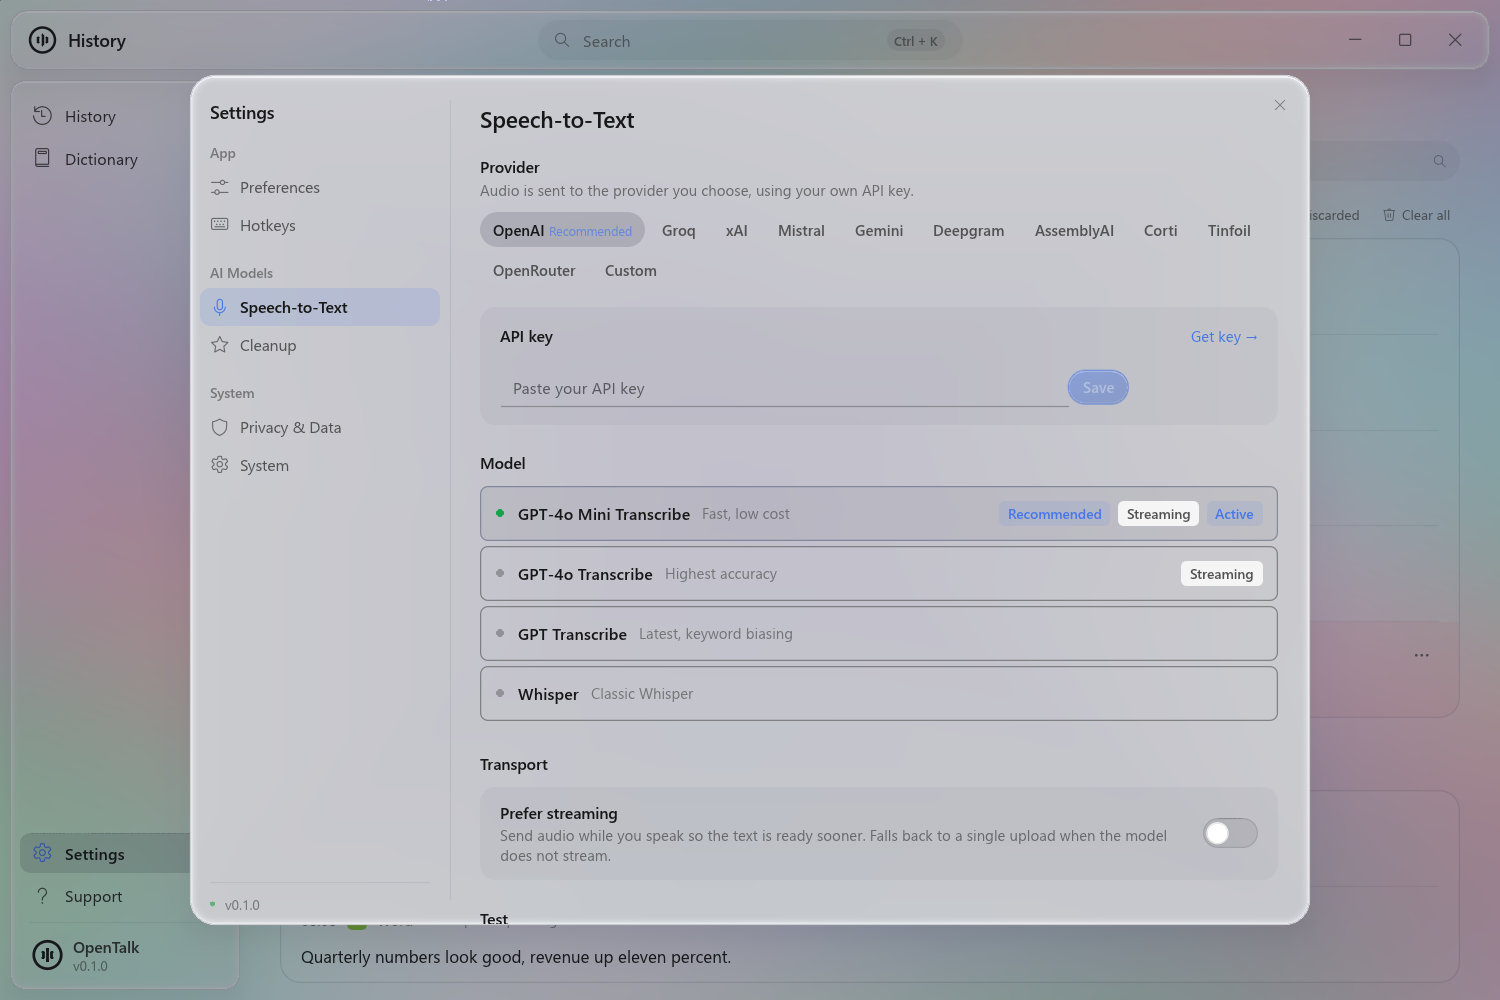
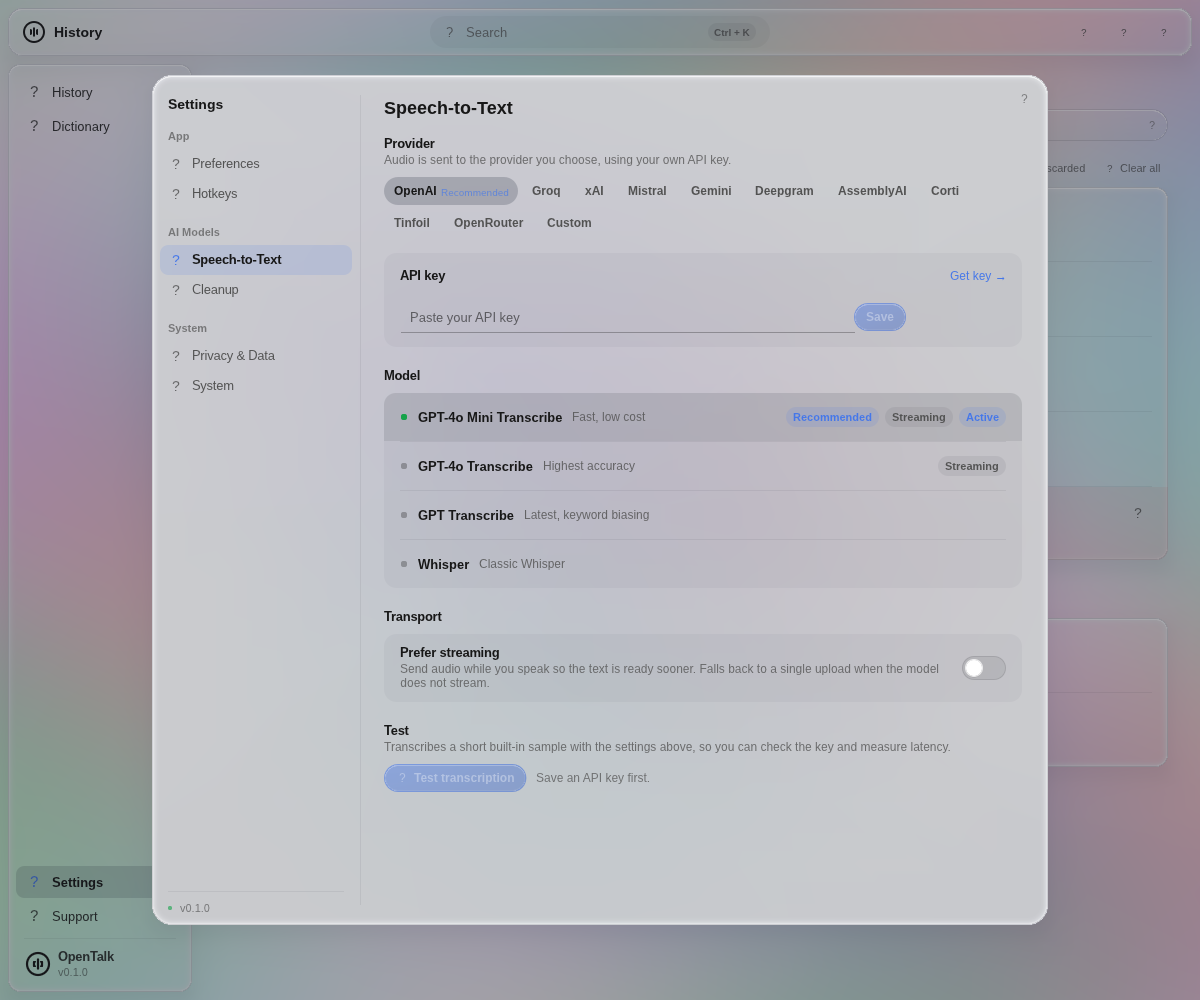
docs: GLASS.md describes every migrated page; regenerate the offscreen screenshots
Removes the "pages not migrated" gap, adds a per-page surface table, updates the checklist and
the verification section (25 scenarios in both themes, Wine font fallback, the opaque-surface
scan, release size 7,450,624 bytes).

Claude-Session: https://claude.ai/code/session_019AKLzexWTAuSHtspAhKPMG

diff --git a/docs/GLASS.md b/docs/GLASS.md
@@ -59,12 +59,27 @@ Two deliberate differences from CSS, both because egui cannot sample or blur wha
 
 | Tier | Painter | Used for |
 |---|---|---|
-| panel | `glass::panel` / `w::panel` | glass top bar, sidebar, every settings / list panel on the page |
-| chip | `glass::chip` | segmented control and pill tabs, tags and badges, outline / flat buttons, **only when not inside glass** |
-| menu | `glass::menu` / `w::menu_surface` | dropdowns and select lists, the Support menu, toasts |
-| modal | `glass::modal` / `w::glass_modal` | the Settings modal (896 x 85vh), the Ctrl+K palette, confirm dialogs; radius `--glass-radius-lg` (20) over `--glass-scrim` |
+| panel | `glass::panel` / `w::panel` | glass top bar, sidebar, every list / settings panel on the page |
+| chip | `glass::chip` | segmented control and pill tabs, tags and badges, key caps, outline / flat buttons, text inputs on the bare page, **only when not inside glass** |
+| menu | `glass::menu` / `w::menu_surface` | dropdowns and select lists, the Support menu, the History row menu, toasts |
+| modal | `glass::modal` / `w::glass_modal` | the Settings modal (896 x 85vh), the Ctrl+K palette, confirm dialogs, the snippet edit dialog; radius `--glass-radius-lg` (20) over `--glass-scrim` |
 | colored | `glass::colored` | primary and destructive buttons, the toggle's on state |
+| colored, low strength | `glass::tinted_shapes` / `w::notice` | warning banner, budget warning, Test / Run results (status tint over a glass panel; inside the modal only a tone wash) |
 | wash | `Palette::wash` / `primary_wash` | hover and selection on anything inside glass |
+
+### What each page uses
+
+| Page | Surfaces |
+|---|---|
+| top bar, sidebar | `glass::panel`; search pill, nav rows, window buttons are washes |
+| History | one `w::panel` per day (rows separated by `w::divider`; hover, failed and discarded rows are washes with the panel's edge rounding); search box is a chip-tier input (`input_chrome` outside glass); the "history is off" banner is a `w::notice`; the empty and no-match states are panels; row menu is `w::menu_surface`; delete / clear are `w::confirm_dialog` (modal tier) |
+| Dictionary | pill tabs (chip tier); add field is a chip-tier input; the word list, the bulk-import box (a `w::text_area` inside a panel), the empty hero and the snippet create / list panels are `w::panel`; the budget warning is a `w::notice`; the snippet edit dialog is `w::glass_modal`; snippet trigger tags are washes |
+| Settings modal | `w::glass_modal`; sidebar rows, the close button and the version footer are washes / hairlines |
+| Preferences, Privacy & Data, System | `w::panel` groups (a faint grouping wash inside the modal) of `w::row`s; toggles are coloured glass when on, a wash when off; selects are hairline inputs with `w::menu_surface` lists; segmented control is a wash |
+| Hotkeys | the capture box is `input_chrome` (hairline, wash, primary line and ring while capturing) holding key caps (`w::paint_keycap`); the activation rows are washes in one panel (selected: primary wash); Esc is a key cap |
+| Speech-to-Text | pill tabs, API key field (hairline input), the model list is one panel of wash rows with `w::paint_chip` tags (Recommended, Streaming, Active); Test result is a `w::notice` |
+| Cleanup | segmented control and toggles in panels, provider tabs, key and model fields, Prompt Studio (`w::text_area` in a panel), result `w::notice` |
+| hotkey capture (`hotkey_capture.rs`) | no surface: it is the keyboard hook; the box it feeds is in Hotkeys |
 
 Stock egui widgets (tooltips, any stray `ComboBox` or `Window`) follow through `theme::apply`:
 transparent panel / extreme fills, menu-surface window fill, glass border, no egui shadows.
@@ -82,8 +97,10 @@ transparent panel / extreme fills, menu-surface window fill, glass border, no eg
    a soft wash with no border and no rim; selection is a primary wash; rows are separated by spacing,
    type weight and a faint inset divider (the glass border at 60 %). Text inputs and selects have no
    box: a 1 px bottom hairline, a wash on hover, and on focus the line turns primary with a low-alpha
-   primary ring. A `w::panel` inside the Settings modal degrades to a faint grouping wash, so there is
-   never glass in glass.
+   primary ring. A `w::panel` (or `w::notice`) inside the Settings modal degrades to a faint grouping
+   wash, so there is never glass in glass. On the bare page an input has nothing to sit on, so
+   `input_chrome` draws it as a chip-tier box instead (the History search and the Dictionary add field
+   were invisible as bare washes). The same input code serves both cases.
 4. **Refraction is progressive enhancement.** The rim band is plain vertex colour (no engine gate
    needed); the CSS layer alone still gives a complete frosted panel.
 
@@ -104,7 +121,12 @@ few hundred vertex colours (cached geometry, no allocation of textures). No new 
 - [x] No acrylic (old Windows, Transparency effects off, Reduce transparency): an opaque page, same
       glass on top.
 - [x] Chips and repeated elements use the CSS-only tier.
-- [x] Nothing hardcodes a colour where a token exists (washes and rims come from `Tokens`).
+- [x] Nothing hardcodes a colour where a token exists (washes and rims come from `Tokens`). The
+      remaining literals are the toggle thumb and the avatar / window-close hover, which have no token.
+- [x] No page paints an opaque surface of its own: `offscreen::pages_inside_glass_paint_no_opaque_surfaces`
+      scans the real shapes of History, Dictionary (empty, words, bulk, snippets, edit dialog) and every
+      Settings section, in both themes.
+- [x] Every page eyeballed in both themes (`docs/screenshots/glass/offscreen/`, 25 scenarios x 2).
 
 ## Adding a surface
 
@@ -118,29 +140,50 @@ few hundred vertex colours (cached geometry, no allocation of textures). No new 
 * Primary / destructive buttons use higher alpha than the recipe, for label contrast.
 * `Palette` keeps the OpenWhispr text colours (`#171717` / `#e8e8e8`); `--glass-page-fg` is present in
   `Tokens` but body text was not changed to it, to keep the existing pages' contrast.
-* Pages that still frame their own surface (`history.rs` panels and keycaps, `dictionary.rs` edit
-  dialog, a few `settings/*.rs` fills) were not migrated here; they get translucent washes through
-  the `Palette` helpers but should move to `w::panel` / `w::glass_modal`.
+* Notices (`w::notice`, `glass::tinted_shapes`) are the skill's coloured glass at low strength
+  (10 % light / 13 % dark tone over the glass tint, border at 30 %), not the 0.55 / 0.42 button
+  gradient, so body text stays on glass.
+* The stand-in behind a modal or menu is the opaque analytic backdrop, sampled on rings
+  (`fill_rings`, one ring per ~128 points) rather than blurred: the glows show through the Settings
+  modal, but a modal is a frosted card, not live glass over the desktop. Light-theme modals read
+  greyer than the rest because the scrim (`rgba(20,22,30,.35)`) dims everything behind them, as in
+  the stylesheet.
+* Everything the page paints behind the window (acrylic) is not visible in the headless shots; see
+  Verification.
+* Pages are fully migrated: no page frames its own surface any more. The theme helpers that used to
+  return a surface fill were removed with the last caller.
 
 ## Verification
 
 * **Live window** (`docs/screenshots/glass/live-*.png`): the real `opentalk.exe --settings <page>`,
   captured with `CopyFromScreen` over a deliberately busy, colourful, text-covered wallpaper window
   placed behind it, so the acrylic blur is visible. Shell and Settings > Preferences in light and
-  dark, plus the dark shell with Reduce transparency on (opaque page). The wallpaper window and the
-  app were closed afterwards. Popups were not driven live (a scripted click did not open the Support
-  menu); they are covered by the headless renderer below.
+  dark, plus the dark shell with Reduce transparency on (opaque page). Taken before the page
+  migration; the pages below were checked headlessly only and still need a pass on a real desktop
+  (acrylic, DPI scaling, Segoe UI and Fluent icons).
 * **Headless frame renderer** (`src/ui/offscreen.rs`, `docs/screenshots/glass/offscreen/*.png`): the
-  real `App::draw` run through egui, tessellated and rasterised on the CPU. It exercises states that
-  are tedious to drive on a desktop (Ctrl+K palette, confirm dialog, Support menu, Speech-to-Text,
-  Dictionary, a tall Preferences with selects). It does not emulate acrylic (a synthetic wallpaper is
-  composited under the translucent window). Regenerate with
-  `OPENTALK_SHOT_DIR=docs/screenshots/glass/offscreen cargo test --bin opentalk offscreen_shots`.
-  Without that variable the test does nothing; `offscreen_shell_has_an_uneven_translucent_backdrop`
-  always runs and asserts the backdrop is uneven and the window translucent in both themes.
-* **Measured, release build, Settings window idle** (10 s after a 6 s settle): working set 13.3 MB
-  (History) / 15.9 MB (Settings modal open), CPU 0 to 0.16 % (one 15.6 ms scheduler tick in 10 s), no
-  repaint while idle. Executable 7,324,672 bytes (+75,776 vs 7,248,896), under the 8,000,000 budget.
+  real `App::draw` run through egui, tessellated and rasterised on the CPU. It does not emulate
+  acrylic (a synthetic wallpaper is composited under the translucent window). Scenarios, each in
+  light and dark: `history`, `history-empty`, `history-disabled` (banner), `history-row-menu`,
+  `history-hover-search`, `dictionary-empty`, `dictionary-words`, `dictionary-words-edit`,
+  `dictionary-bulk`, `dictionary-snippets`, `dictionary-snippet-edit`, `settings-preferences`,
+  `settings-preferences-scrolled`, `settings-hotkeys`, `settings-stt`, `settings-stt-custom`,
+  `settings-stt-result`, `settings-stt-error` (the nested notice), `settings-cleanup`, `settings-cleanup-ai`, `settings-privacy`, `settings-system`, `palette`,
+  `support-menu`, `confirm-clear`. Regenerate with
+  `OPENTALK_SHOT_DIR=docs/screenshots/glass/offscreen cargo test --bin opentalk offscreen_shots`
+  (`OPENTALK_SHOT_ONLY=<substring>` renders a subset). Without the variable the test does nothing.
+  Under Wine `C:\Windows\Fonts` has no Segoe UI, so `fonts::install_from` falls back to Liberation
+  Sans / DejaVu from the Linux host; the icon font has no free stand-in, so icon glyphs appear as
+  `?` in the shots (on Windows they are Segoe Fluent Icons). Text metrics differ slightly from Segoe.
+  Always-on tests: `offscreen_shell_has_an_uneven_translucent_backdrop`,
+  `pages_inside_glass_paint_no_opaque_surfaces` (rule 3 on the real pages) and its negative control.
+* **Measured, release build, Settings window idle** (10 s after a 6 s settle, before the page
+  migration): working set 13.3 MB (History) / 15.9 MB (Settings modal open), CPU 0 to 0.16 % (one
+  15.6 ms scheduler tick in 10 s), no repaint while idle. The migration adds only washes, hairlines
+  and a few ring meshes per frame (no textures, no allocation per frame beyond the shape lists), and
+  no `request_repaint` calls, so these numbers are expected to hold; re-measure on Windows.
+  Executable (release, cross-built): 7,450,624 bytes, under the 8,000,000 budget (the previous
+  glass-foundation measurement was 7,324,672; the page migration adds about 126 KB of code).
 
 ## Windows notes
 
